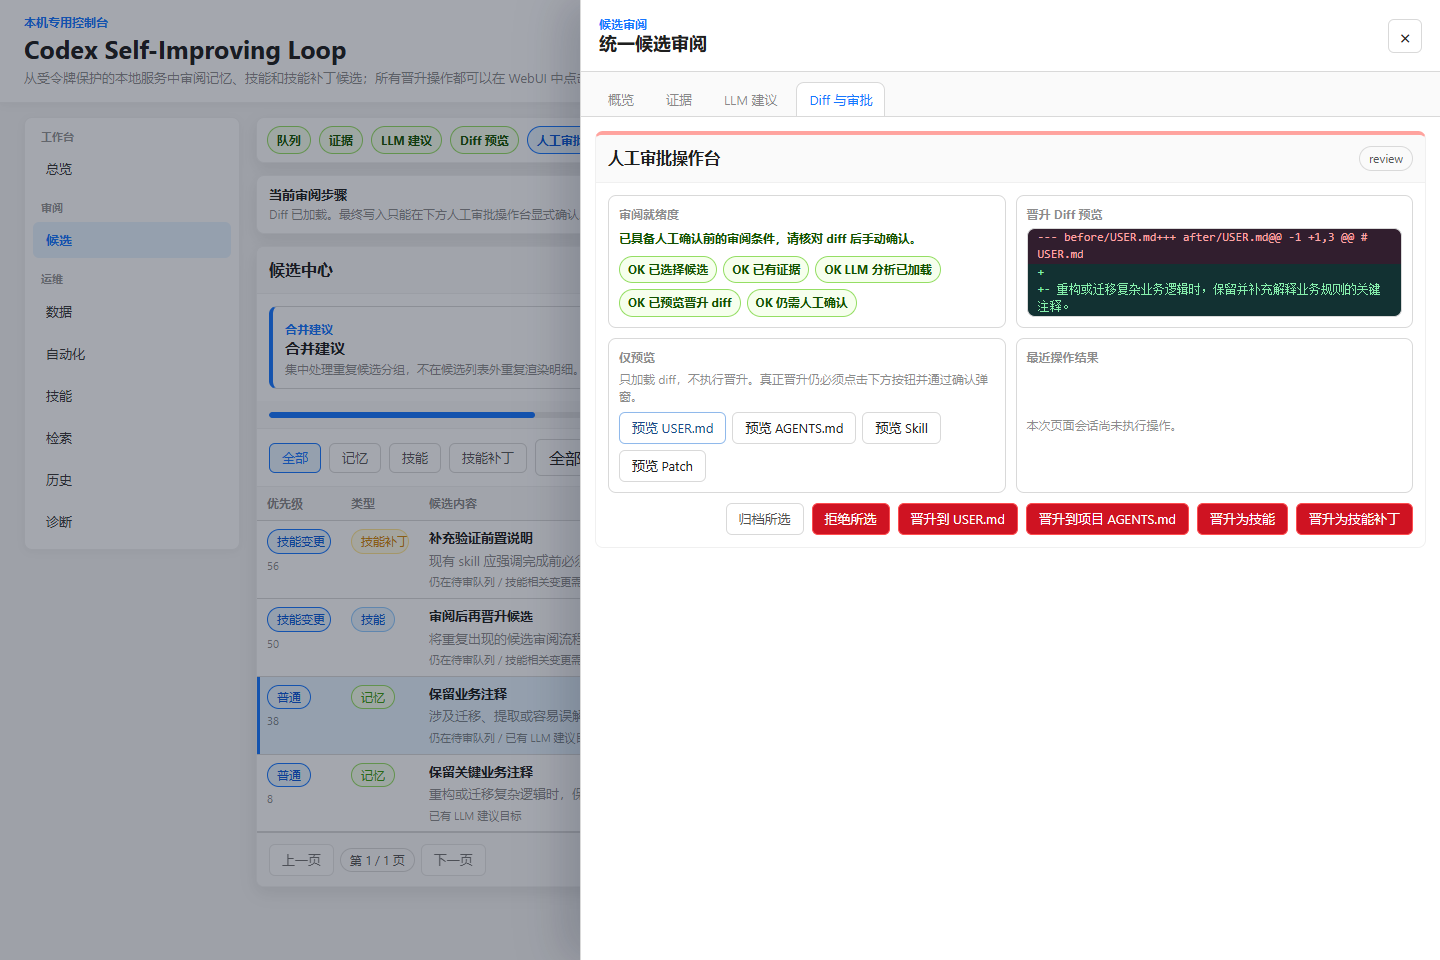
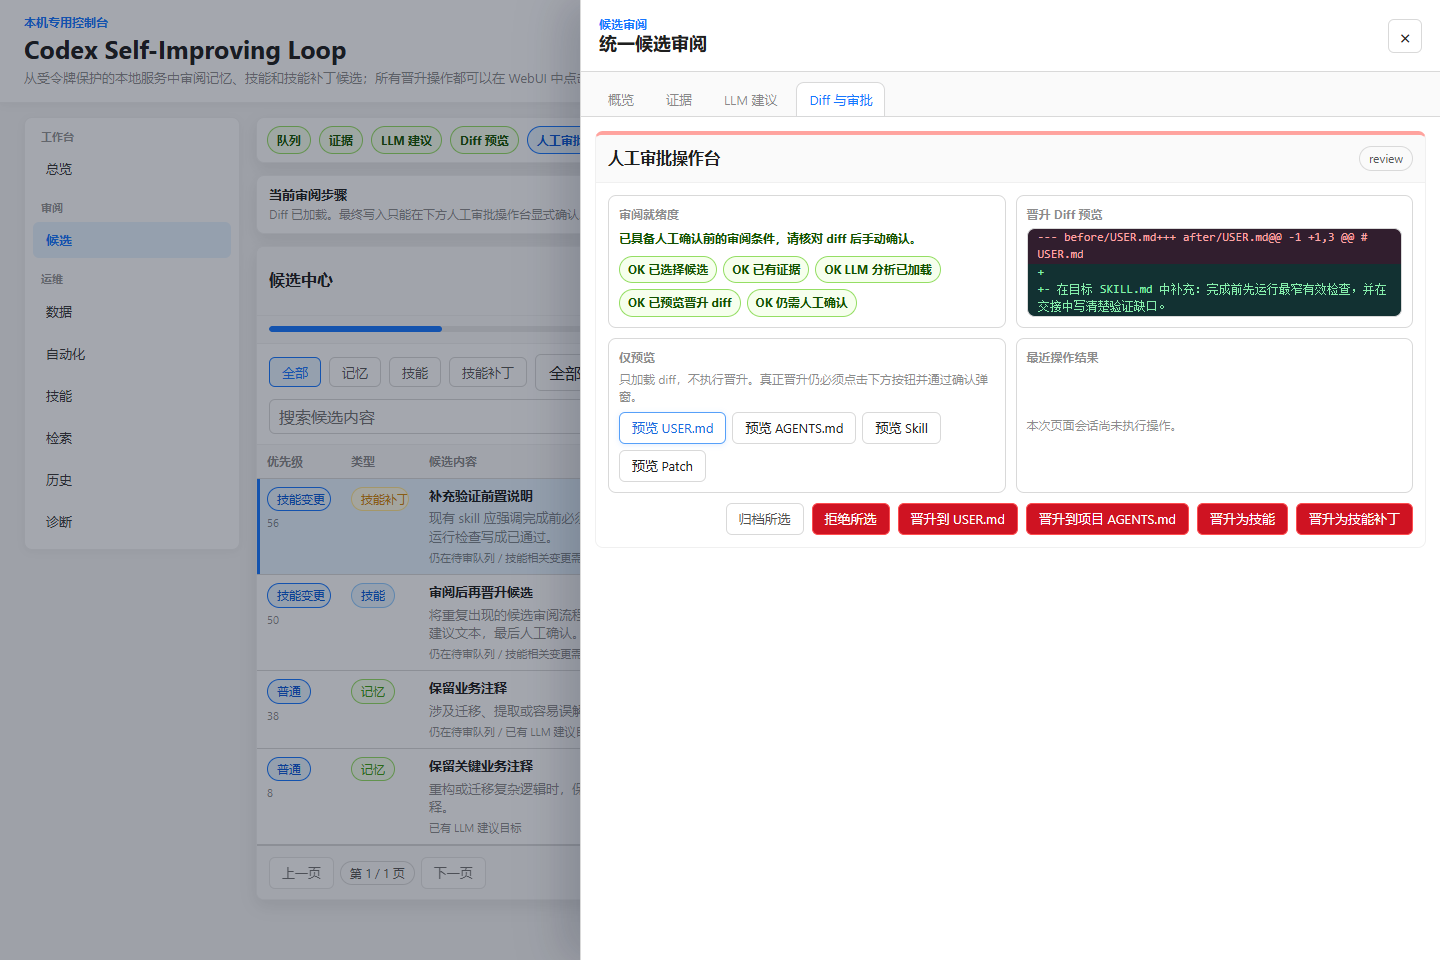
Refactor code structure for improved readability and maintainability

diff --git a/README.md b/README.md
@@ -121,8 +121,8 @@ python "$HOME/.agents/codex-self-improving-loop/sil.py" serve --open
    ```
 
 3. 在总览页查看下一步建议、待审阅候选、digest 和失败运行。
-4. 在候选审阅页查看候选证据、LLM 分析、建议文本和合并建议。
-5. 先预览晋升 diff，再在人工审批操作台确认是否写入。
+4. 在候选审阅页先用右侧审阅上下文确认来源、风险和下一步，再打开详情或审批抽屉查看证据、LLM 分析、建议文本和合并建议。
+5. 先在审批抽屉预览晋升 diff，再在人工审批操作台确认是否写入。
 6. 在运维与历史区域查看备份、导出、审计、晋升历史和回滚预览。
 
 ### 每日自动扫描
@@ -162,7 +162,8 @@ python "$HOME/.agents/codex-self-improving-loop/sil.py" shortcut install
 总览页用于每天第一次打开时快速判断状态：
 
 - 首次运行向导显示数据库、历史重建、skills 和调度器是否就绪。
-- 统计卡片展示 memory、skill、skill patch、待审阅项、skill 使用和状态分布。
+- 白底指标卡展示候选、skill、运行记录和审阅队列的核心状态，避免把总览做成操作页。
+- 运行状态条汇总常用动作的当前状态；具体写入、导出和重建动作仍在对应页面执行。
 - 下一步建议会根据待审阅候选、失败运行和扫描状态提示当前优先动作。
 - 每日审阅摘要显示新增候选、建议晋升、风险项、skill 使用和失败运行。
 - 优先审阅候选会把风险、skill 变更和高置信度候选排到前面。
@@ -181,22 +182,24 @@ python "$HOME/.agents/codex-self-improving-loop/sil.py" shortcut install
 
 - 顶部阶段条显示当前审阅阶段：队列、证据、LLM 建议、diff 预览、人工审批、历史。
 - 候选中心支持按类型、状态、日期、优先级和关键词筛选。
-- 合并建议用于处理相似候选，避免重复晋升。
+- 合并建议位于候选工具栏中，用于处理相似候选，避免重复晋升。
 - 候选行展示类型、目的地、安全状态、审阅状态、优先级和更新时间。
-- 选择候选后，会打开统一审阅抽屉查看详情。
+- 点击候选行只刷新右侧审阅上下文，不会立即弹出抽屉。
+- 审阅上下文显示当前候选的状态、来源、归属和建议下一步，并提供打开详情和打开审批入口。
 
 使用方式：
 
-1. 先选择一个候选。
-2. 查看证据来源和候选文本是否足够稳定。
-3. 查看 LLM 分析中的风险、范围、冲突和建议目标。
+1. 先选择一个候选，让右侧审阅上下文定位当前审阅对象。
+2. 在上下文中确认来源、状态、安全标记、归属和建议下一步。
+3. 点击打开详情，查看证据来源、候选文本和 LLM 分析是否足够稳定。
 4. 对相似候选先处理合并建议，再决定是否晋升。
+5. 需要写入时再打开审批，先预览 diff，再确认是否晋升。
 
 ### 3. 人工审批：先预览 diff，再确认写入
 
 ![WebUI 人工审批与 diff](docs/assets/webui-approval-diff.png)
 
-人工审批操作台是唯一会触发晋升写入的位置：
+人工审批操作台通常从右侧审阅上下文打开，也是唯一会触发晋升写入的位置：
 
 - `预览 USER.md`、`预览 AGENTS.md`、`预览 Skill`、`预览 Patch` 只加载 diff，不写文件。
 - 写入按钮会使用高风险样式，并弹出结构化确认对话框。
@@ -214,13 +217,14 @@ python "$HOME/.agents/codex-self-improving-loop/sil.py" shortcut install
 
 ![WebUI 运维](docs/assets/webui-operations.png)
 
-运维区把高风险动作和安全动作分开：
+数据中心使用左右工作台，把高频操作和恢复复盘分开：
 
+- 左侧操作列按安全、导出、危险分组，避免把重建数据库放进日常按钮流里。
 - 安全操作：刷新、初始化数据库、备份数据库、扫描一次、扫描并分析。
-- 危险操作：重建数据库。重建前会先备份，再清空当前 SQLite 表并重扫历史。
 - 导出操作：导出 digest、候选列表或迁移包，不改变候选状态。
+- 危险操作：重建数据库。重建前会先备份，再清空当前 SQLite 表并重扫历史。
 - 导入预览：只做 dry-run 预览，不直接覆盖运行数据。
-- 恢复复盘队列：把失败运行、审计信号和可回滚记录集中展示。
+- 右侧洞察列集中展示恢复复盘队列和回滚预览，避免页面重复出现多个回滚入口。
 
 使用方式：
 
@@ -233,17 +237,21 @@ python "$HOME/.agents/codex-self-improving-loop/sil.py" shortcut install
 
 ![WebUI Skill 管理](docs/assets/webui-skills.png)
 
+![WebUI Skill 来源上下文](docs/assets/webui-skill-source-context.png)
+
 Skill 管理页关注两件事：
 
 - 安装或更新内置 `session-recall`、`memory-capture` skills。
 - 查看 skill 相关候选、skill 使用次数、最近使用时间、补丁数和建议动作。
+- 从 skill 候选点击查看或预览时，会进入候选审阅工作台，并在右侧上下文中标记来源和返回 skill 的入口。
 
 使用方式：
 
 1. 安装后或升级后点击 `安装 / 更新技能`，同步仓库内置 skills 到 `$HOME/.agents/skills`。
 2. 如果 `USER.md` 不存在，可点击 `初始化 USER.md 模板`。
-3. 对 skill 候选先点击查看或预览，确认触发条件、步骤、验证和安全边界，再晋升。
-4. 对 skill patch 候选先导出 patch，再人工检查目标 skill，避免自动改变代理行为。
+3. 对 skill 候选先点击查看或预览，确认触发条件、步骤、验证和安全边界。
+4. 如果从 Skill 管理进入候选审阅，可使用右侧上下文里的返回入口回到 Skill 管理页。
+5. 对 skill patch 候选先导出 patch，再人工检查目标 skill，避免自动改变代理行为。
 
 ## 功能说明
 
@@ -251,11 +259,11 @@ Skill 管理页关注两件事：
 | ------------ | ------------------------------------------------------------------------ |
 | 会话扫描     | 从 Codex session 历史中提取候选、skill 使用和运行记录。                  |
 | 历史重建     | 备份后重置 SQLite 数据，再从历史会话全量重扫。                           |
-| 候选去重     | 使用 normalized 文本避免完全重复候选；相似候选通过合并建议处理。         |
+| 候选去重     | 使用 normalized 文本避免完全重复候选；相似候选通过工具栏合并建议处理。   |
 | 候选类型     | 支持 `memory`、`skill`、`skill_patch`。                                  |
 | 审阅建议     | 为每个候选生成确定性建议，Codex 可用时可扩展为更高质量分析。             |
 | LLM 分析     | 生成证据评估、稳定性、范围、风险、冲突、改写质量和下一步建议。           |
-| 晋升预览     | 对 `USER.md`、`AGENTS.md`、skill、patch 生成 diff，不直接写入。          |
+| 晋升预览     | 在审批抽屉中对 `USER.md`、`AGENTS.md`、skill、patch 生成 diff，不直接写入。 |
 | 人工晋升     | 只有 WebUI 人工确认后才写目标文件，并保留备份和审计记录。                |
 | 跨会话检索   | `sil.py recall` 使用 SQLite FTS 搜索 session 和候选，返回脱敏片段。      |
 | Daily Digest | 每次扫描或重建后保存摘要，便于每日复盘。                                 |
